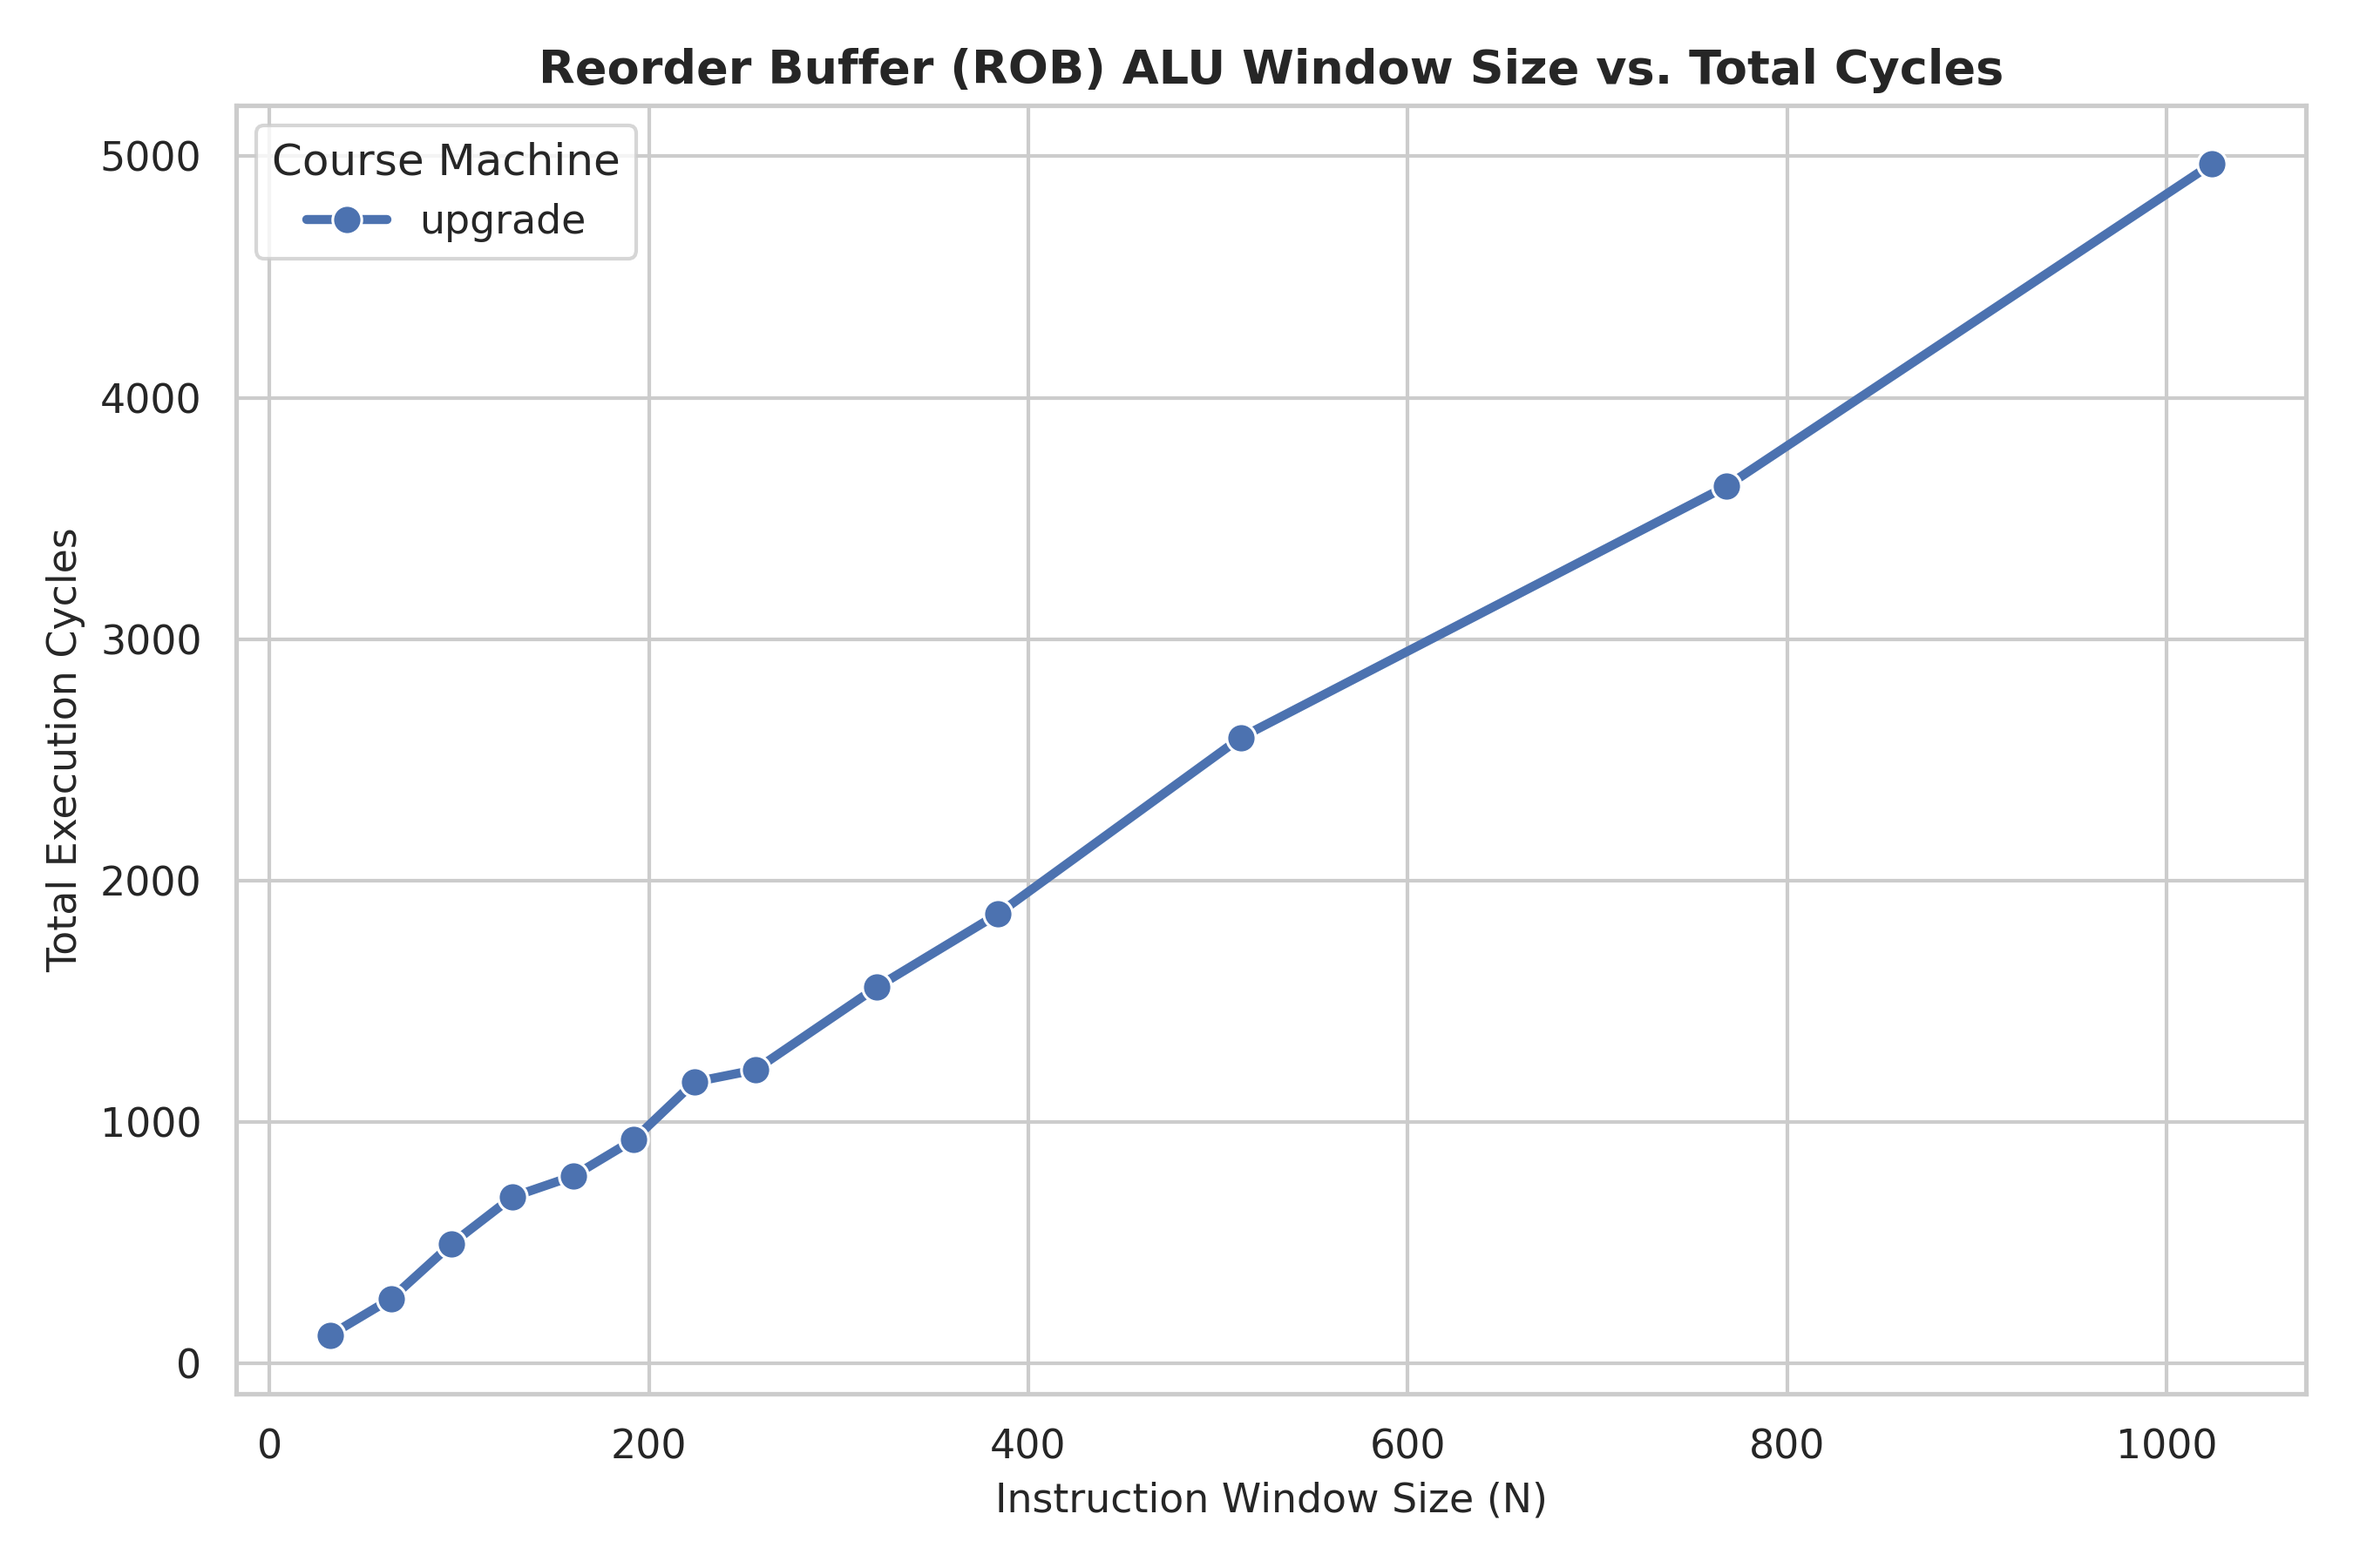
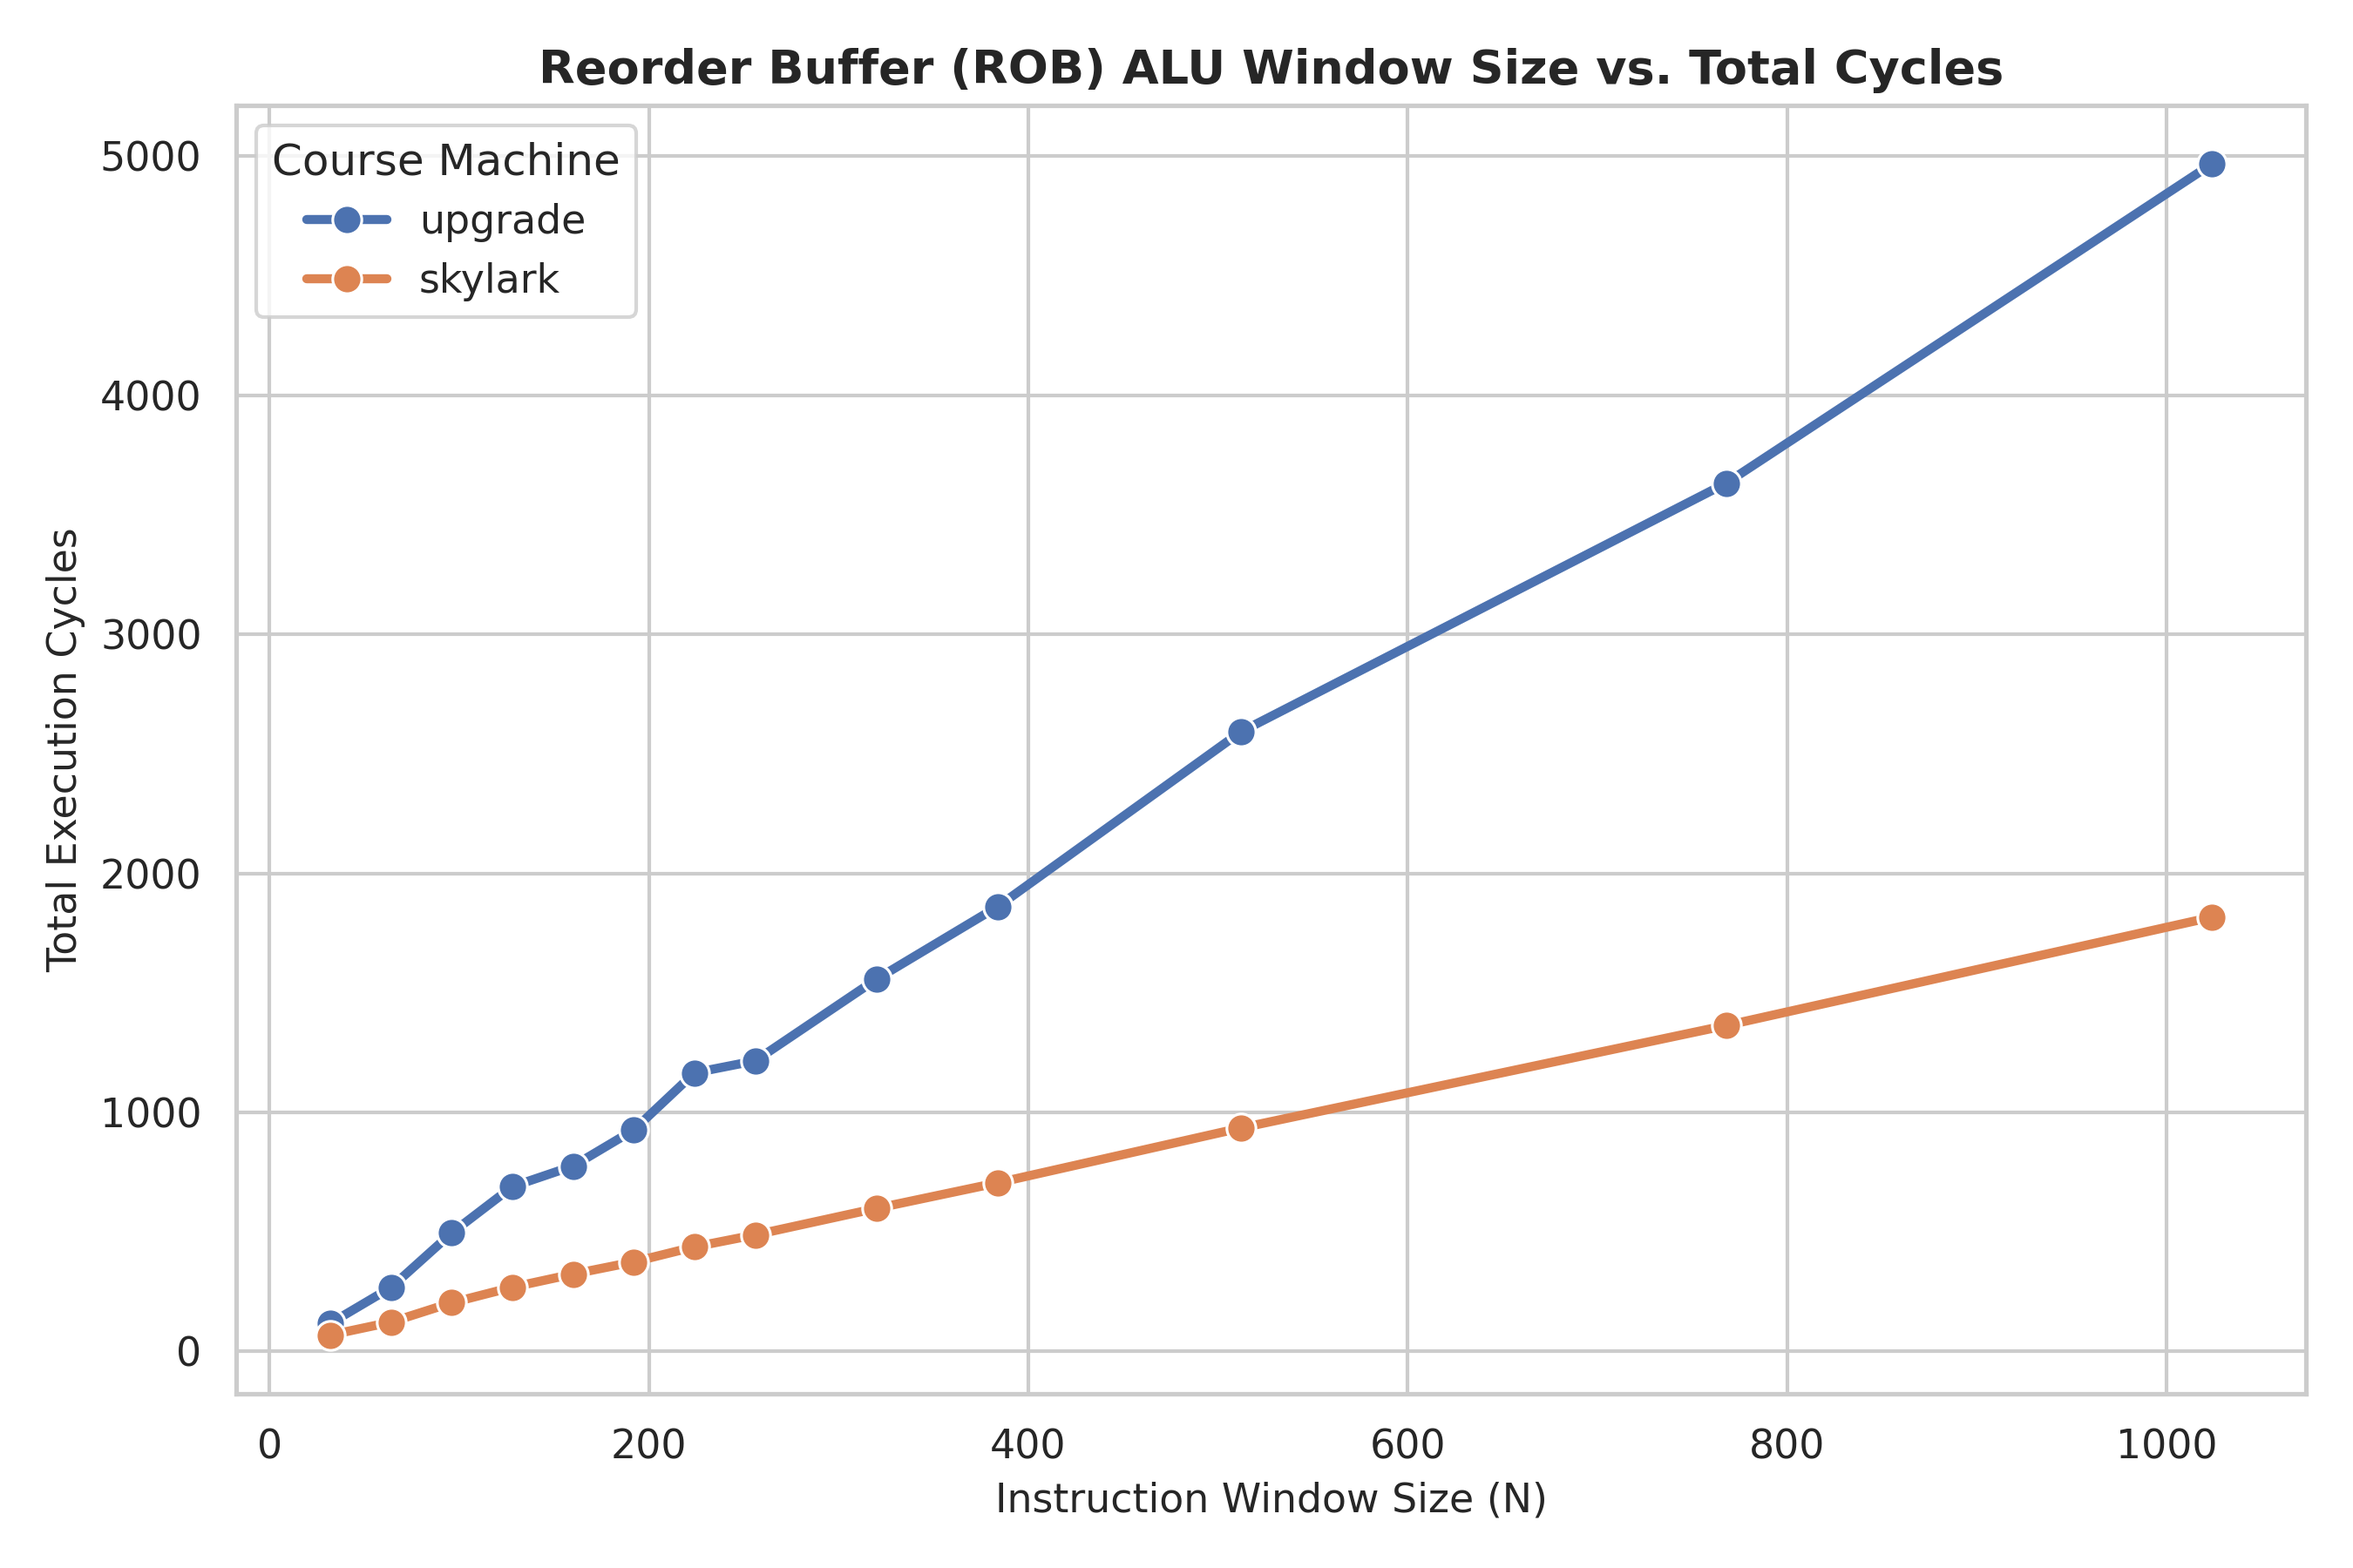
Update broad ROB plotting script to support multi-machine comparison and individual broad plots

diff --git a/plots/plot_rob.py b/plots/plot_rob.py
@@ -4,7 +4,6 @@ import seaborn as sns
 import glob
 import os
 
-# Search patterns to locate ROB CSV data files from root or plots directory
 search_paths = [
     "data/q3_rob/*_rob_alu.csv",
     "../data/q3_rob/*_rob_alu.csv"
@@ -17,47 +16,59 @@ for pattern in search_paths:
         csv_files.extend(files)
 
 csv_files = list(set(csv_files))
-print(f"Found ROB CSV files: {csv_files}")
+print(f"Found broad ROB CSV files: {csv_files}")
 
-# Read and combine discovered dataframes
 dfs = [pd.read_csv(f) for f in csv_files]
 
 if dfs:
     df = pd.concat(dfs, ignore_index=True)
     df.columns = df.columns.str.strip()
-    
-    # Clean up machine domain names to concise labels (e.g., upgrade or skylark)
-    df["Machine"] = df["Machine"].str.split(".").str[0]
+    df["Machine_Clean"] = df["Machine"].str.split(".").str[0]
 
-    # Configure plotting style and dimensions
+    os.makedirs("plots", exist_ok=True)
+
+    # 1. Generate individual broad plots per machine
+    for machine in df["Machine_Clean"].unique():
+        machine_df = df[df["Machine_Clean"] == machine].sort_values("Window_Size")
+        
+        sns.set_theme(style="whitegrid")
+        fig, ax = plt.subplots(figsize=(9, 6))
+        sns.lineplot(
+            data=machine_df, x="Window_Size", y="Cycles", 
+            marker="o", color="b", linewidth=2.5, markersize=8, ax=ax
+        )
+        ax.set_title(f"Reorder Buffer (ROB) ALU Window Size vs. Total Cycles ({machine})", fontsize=13, weight="bold")
+        ax.set_ylabel("Total Execution Cycles", fontsize=11)
+        ax.set_xlabel("Instruction Window Size (N)", fontsize=11)
+        plt.tight_layout()
+        out_path = f"plots/{machine}_rob_alu_broad.png"
+        plt.savefig(out_path, dpi=300)
+        plt.close()
+        print(f"Saved broad plot for {machine}: {out_path}")
+
+    # 2. Generate combined broad comparison plot (The crucial multi-machine graph)
     sns.set_theme(style="whitegrid")
     fig, ax = plt.subplots(figsize=(9, 6))
-
-    # Plot line graph with markers for each machine
     sns.lineplot(
         data=df, 
         x="Window_Size", 
         y="Cycles", 
-        hue="Machine", 
+        hue="Machine_Clean", 
         marker="o", 
         linewidth=2.5, 
         markersize=8, 
         ax=ax
     )
-
-    # Set chart labels, title, and legend
     ax.set_title("Reorder Buffer (ROB) ALU Window Size vs. Total Cycles", fontsize=13, weight="bold")
     ax.set_ylabel("Total Execution Cycles", fontsize=11)
     ax.set_xlabel("Instruction Window Size (N)", fontsize=11)
     ax.legend(title="Course Machine", loc="upper left")
-
     plt.tight_layout()
     
-    # Save output plot to target directories
-    plt.savefig("rob_alu_comparison.png", dpi=300)
-    if os.path.exists("../plots"):
-        plt.savefig("../plots/rob_alu_comparison.png", dpi=300)
-        
-    print("ROB comparison graph successfully generated!")
+    combined_path = "plots/rob_alu_comparison.png"
+    plt.savefig(combined_path, dpi=300)
+    plt.close()
+    print(f"Saved combined broad comparison plot: {combined_path}")
+
 else:
-    print("Error: No ROB CSV data files found.")
+    print("Error: No broad ROB CSV data found.")
